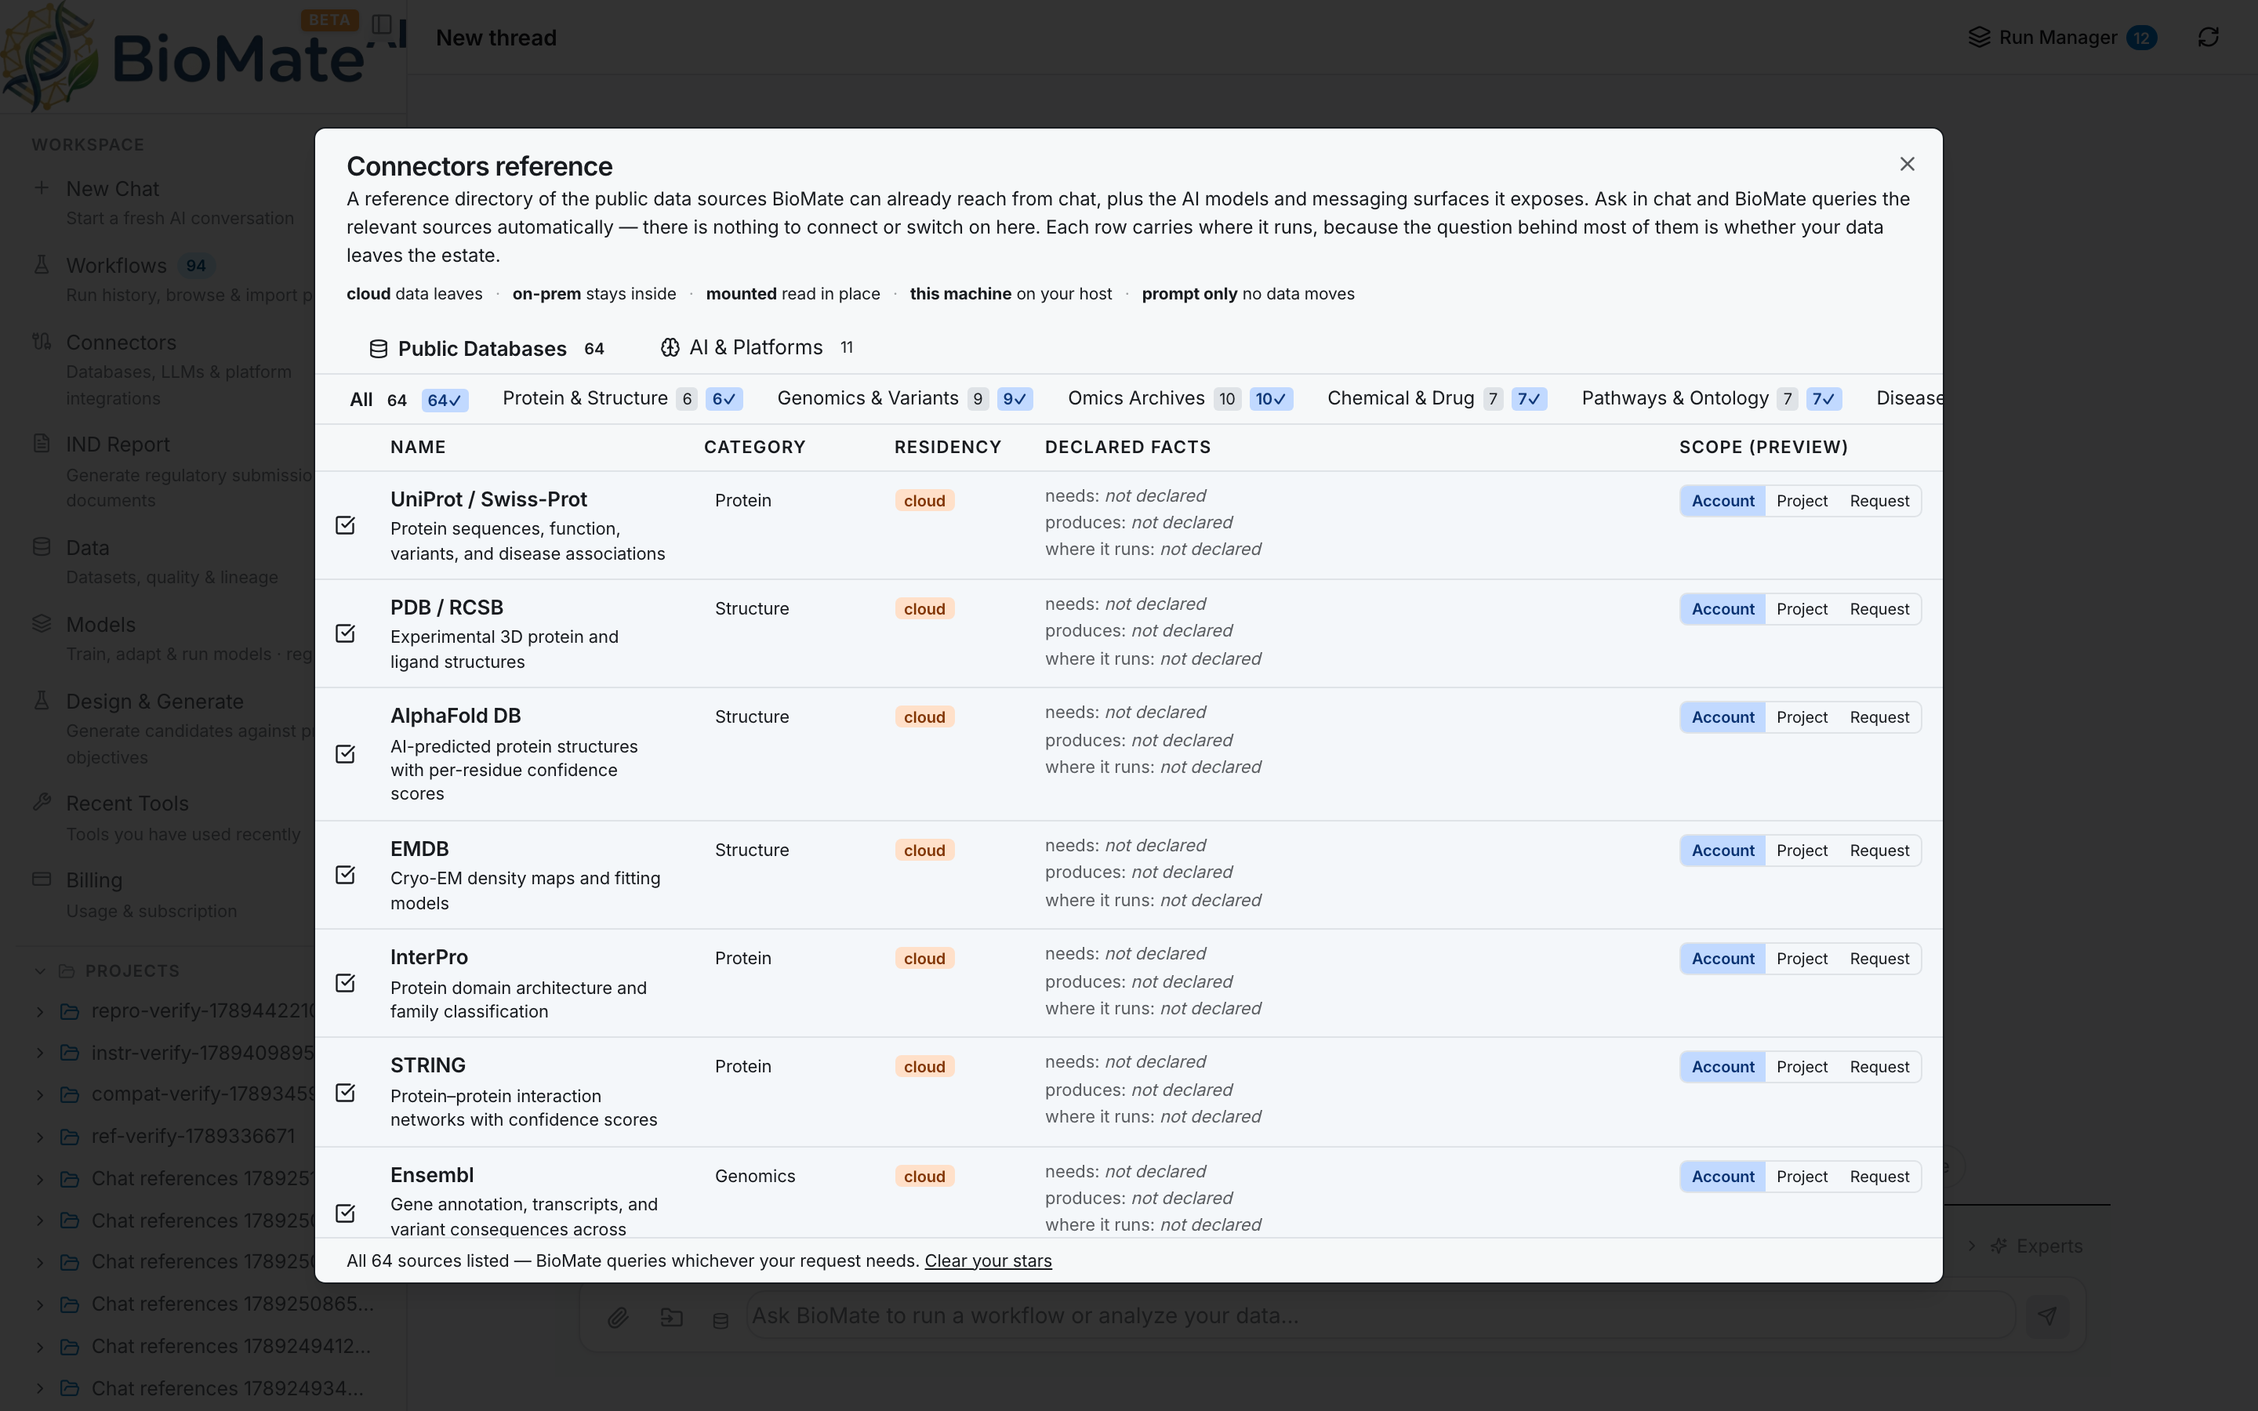
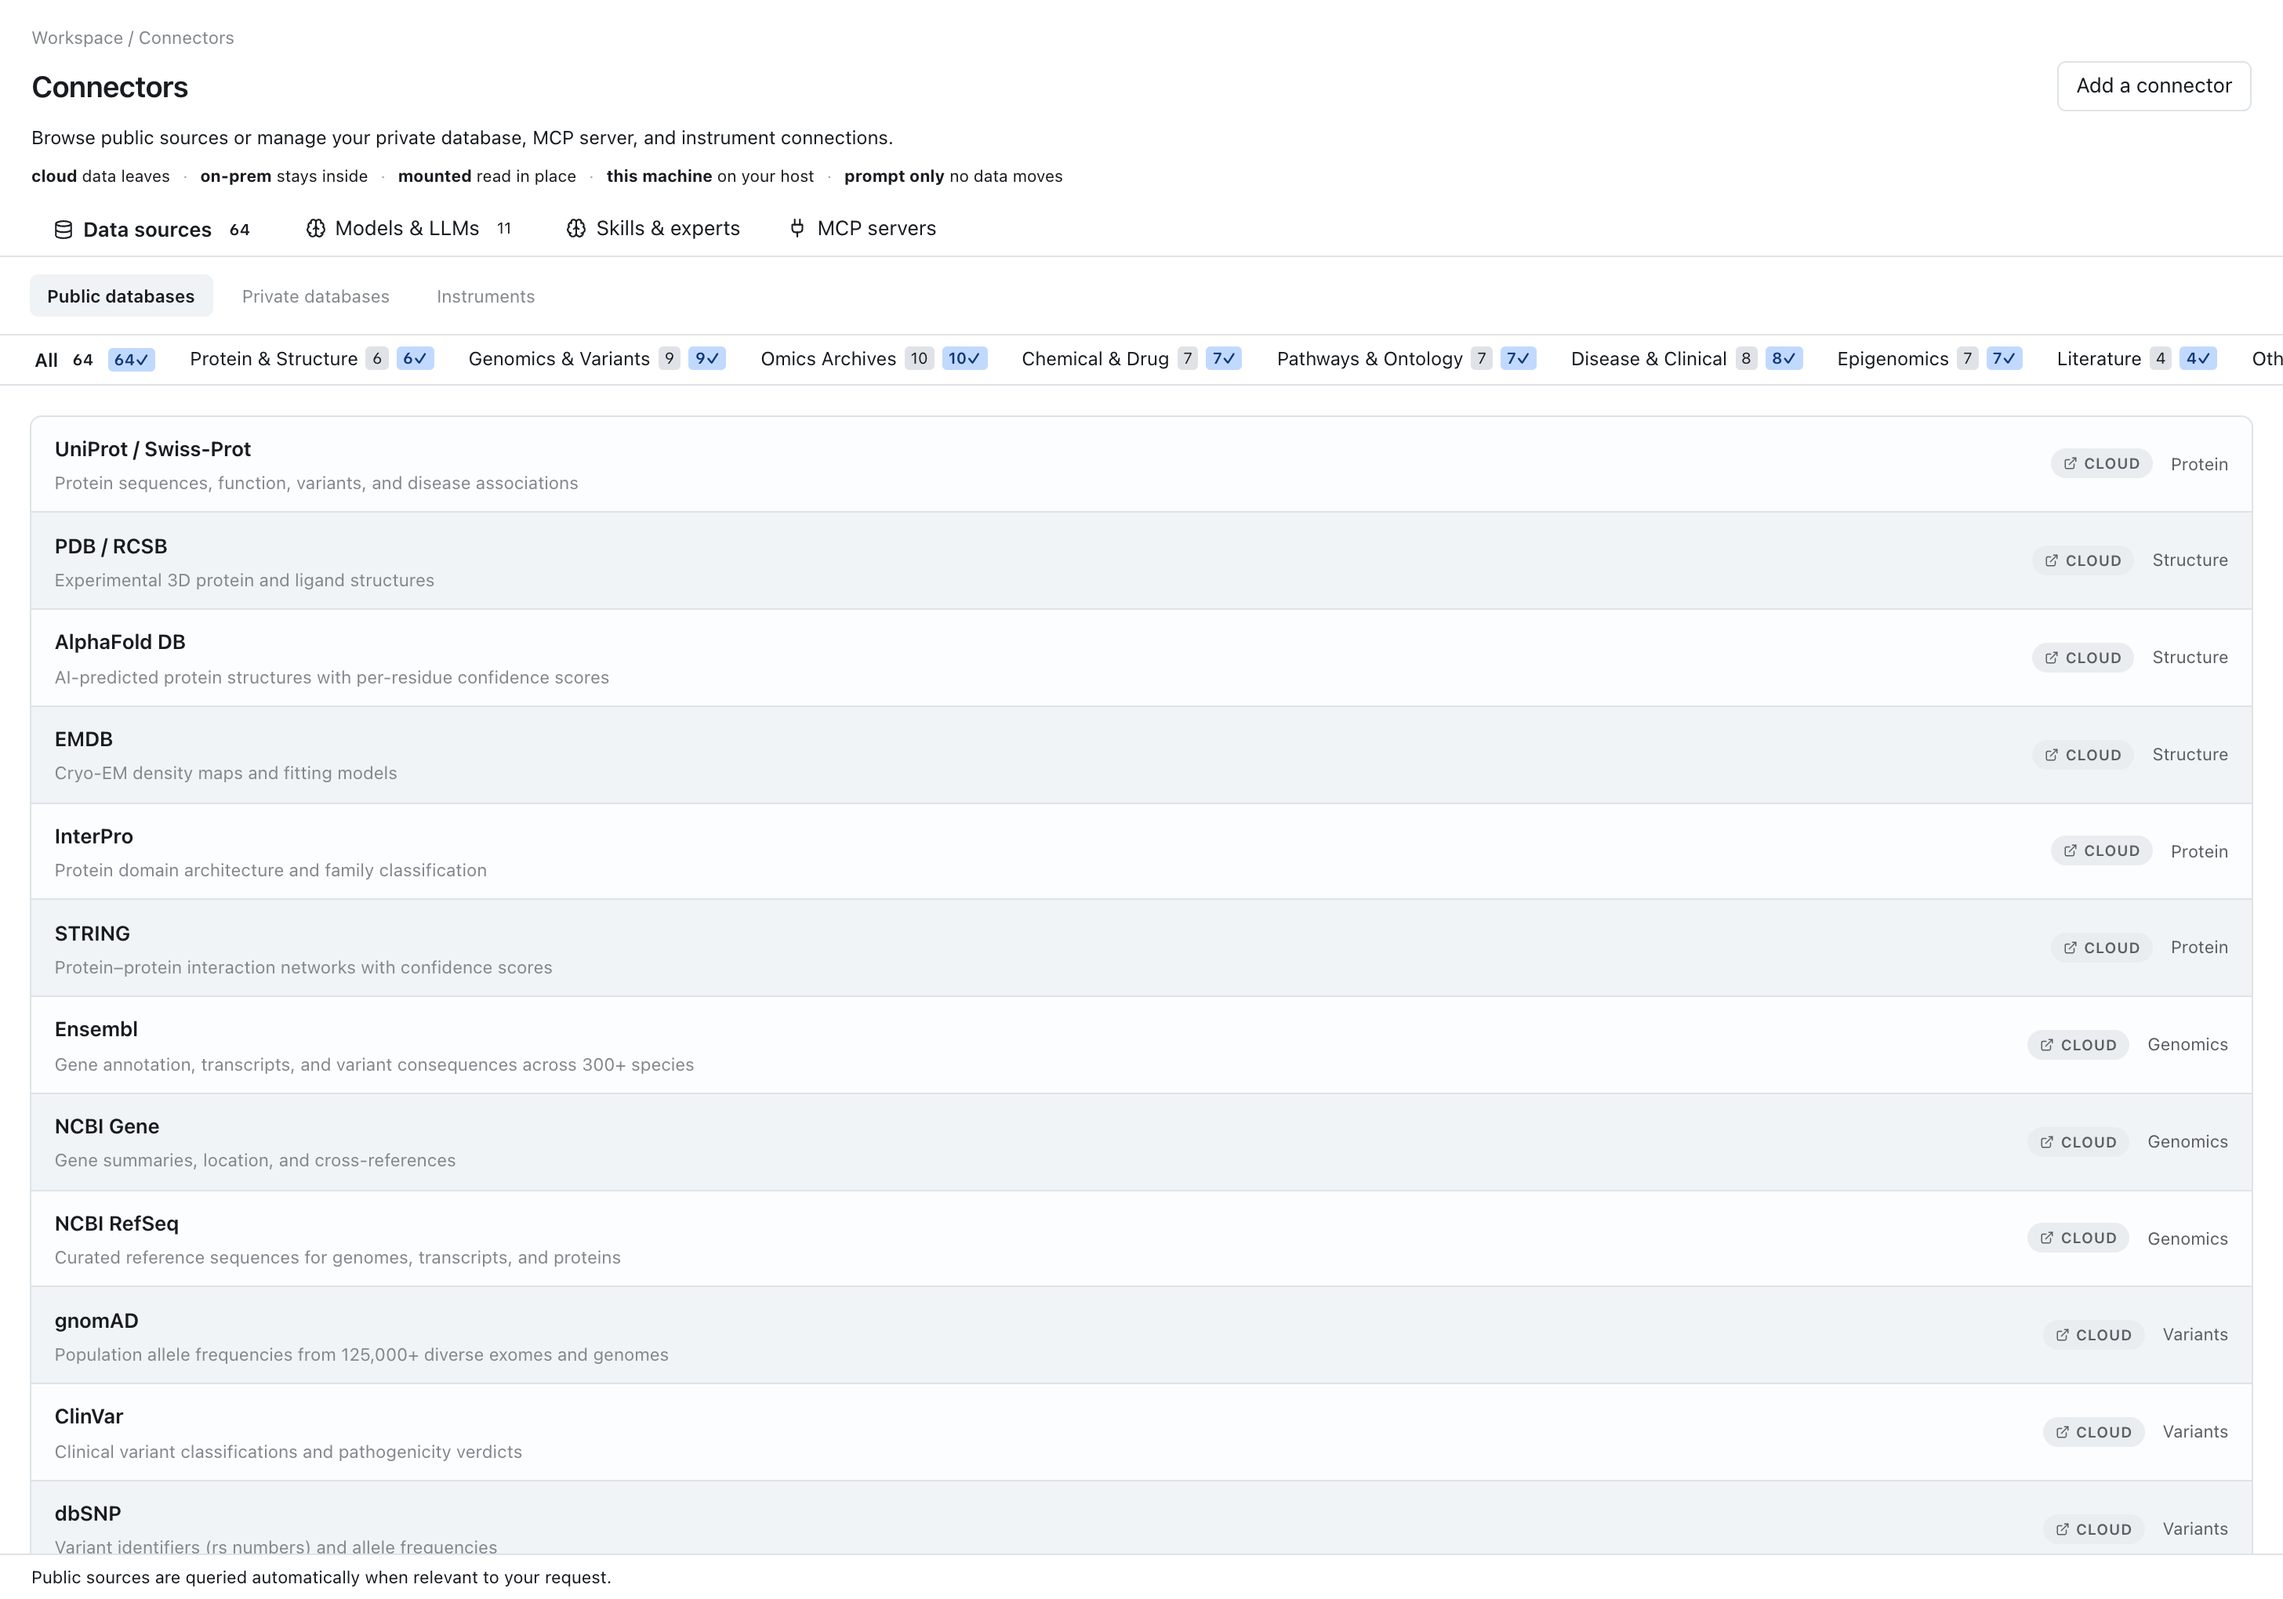
fix(manual): re-capture t7-2 (members, fix live), i12-1 (connectors current), s1-1 (sidebar status dots)
t7-2: Members & roles now renders on the instructions tab (reachability fix live)
  — invite box, role selector, share link, member list.
i12-1: current /settings/connections surface (Workspace/Connectors, residency
  legend, 64 data sources w/ CLOUD residency badges) — resolves the stale
  pre-10-09 capture. (A5 'where it runs' row is in the dialog-table variant, not
  this card page; caption to note.)
s1-1: sidebar chat history with real colored status dots (blue completed, red
  failed) — the committee-required state. All 3 are 2x.

diff --git a/frontend/e2e/manual-recapture-final.e2e.ts b/frontend/e2e/manual-recapture-final.e2e.ts
@@ -1,0 +1,65 @@
+/**
+ * Final manual re-captures: t7-2 (members panel, fix live), i12-1 (connectors
+ * where-it-runs from residency, A5 live), s1-1 (sidebar chat dots).
+ * Run: BIOMATE_URL=https://dev-public.biomate.ai npx playwright test e2e/manual-recapture-final.e2e.ts --project=chromium --retries=0
+ */
+import { test } from "@playwright/test";
+import * as path from "path";
+import { loginAsFixture, BASE_URL } from "./_fixture-login";
+
+test.use({ viewport: { width: 1680, height: 1050 }, deviceScaleFactor: 2 });
+const ASSETS = path.resolve(process.cwd(), "..", "docs/user-manual/assets");
+const MG_PROJECT = "3cd5292d-fcc4-4d78-8d41-53d6d3a5e77a";
+
+test("final re-captures (t7-2, i12-1, s1-1)", async ({ page }) => {
+  test.setTimeout(180_000);
+  await loginAsFixture(page);
+  const log: string[] = [];
+  const contentCrop = async (name: string) => {
+    const content = page.locator('[data-testid="platform-sidebar"] + div');
+    const tgt = (await content.count().catch(() => 0)) > 0 ? content.first() : page;
+    await tgt.screenshot({ path: path.join(ASSETS, name) });
+    log.push(`OK   ${name}`);
+  };
+
+  // ── t7-2 members & roles (now on instructions tab) ───────────────────────
+  try {
+    await page.goto(`${BASE_URL}/projects?project=${MG_PROJECT}&tab=instructions`, { waitUntil: "domcontentloaded", timeout: 45_000 });
+    await page.waitForTimeout(6000);
+    const members = page.getByTestId("members-panel").first();
+    if (await members.isVisible({ timeout: 8000 }).catch(() => false)) {
+      await members.scrollIntoViewIfNeeded().catch(() => {});
+      await page.waitForTimeout(1200);
+      await members.screenshot({ path: path.join(ASSETS, "t7-2-members-roles.png") });
+      log.push("OK   t7-2-members-roles.png");
+    } else { log.push("SKIP t7-2 (members-panel not visible)"); }
+  } catch (e: any) { log.push(`FAIL t7-2 — ${e?.message?.split("\n")[0] ?? e}`); }
+
+  // ── i12-1 connectors (databases tab, where-it-runs from residency) ───────
+  try {
+    await page.goto(`${BASE_URL}/settings/connections`, { waitUntil: "domcontentloaded", timeout: 45_000 });
+    await page.waitForTimeout(5000);
+    const dbTab = page.getByTestId("connector-tab-databases");
+    if (await dbTab.count() > 0) { await dbTab.click({ timeout: 8000 }).catch(() => {}); await page.waitForTimeout(1500); }
+    const dialog = page.getByTestId("connectors-dialog").first();
+    if (await dialog.isVisible({ timeout: 8000 }).catch(() => false)) {
+      await dialog.screenshot({ path: path.join(ASSETS, "i12-1-connectors-dialog.png") });
+      log.push("OK   i12-1-connectors-dialog.png");
+    } else { await contentCrop("i12-1-connectors-dialog.png"); }
+  } catch (e: any) { log.push(`FAIL i12-1 — ${e?.message?.split("\n")[0] ?? e}`); }
+
+  // ── s1-1 sidebar (chat history w/ status dots) ───────────────────────────
+  try {
+    await page.goto(`${BASE_URL}/`, { waitUntil: "domcontentloaded", timeout: 45_000 });
+    await page.waitForTimeout(6000); // let sessionStatusMap fetch /api/workflows/runs
+    // Report whether any colored dot rows exist (chats with a run).
+    const chatBtns = page.locator('[data-testid^="button-chat-"]');
+    const nChats = await chatBtns.count().catch(() => 0);
+    // Sidebar is the leftmost column; clip it (width ~ 264 CSS px at the expanded width).
+    await page.screenshot({ path: path.join(ASSETS, "s1-1-sidebar.png"), clip: { x: 0, y: 0, width: 272, height: 1050 } });
+    log.push(`OK   s1-1-sidebar.png (chat rows=${nChats})`);
+  } catch (e: any) { log.push(`FAIL s1-1 — ${e?.message?.split("\n")[0] ?? e}`); }
+
+  // eslint-disable-next-line no-console
+  console.log("\n[final-recapture]\n" + log.join("\n") + "\n");
+});
